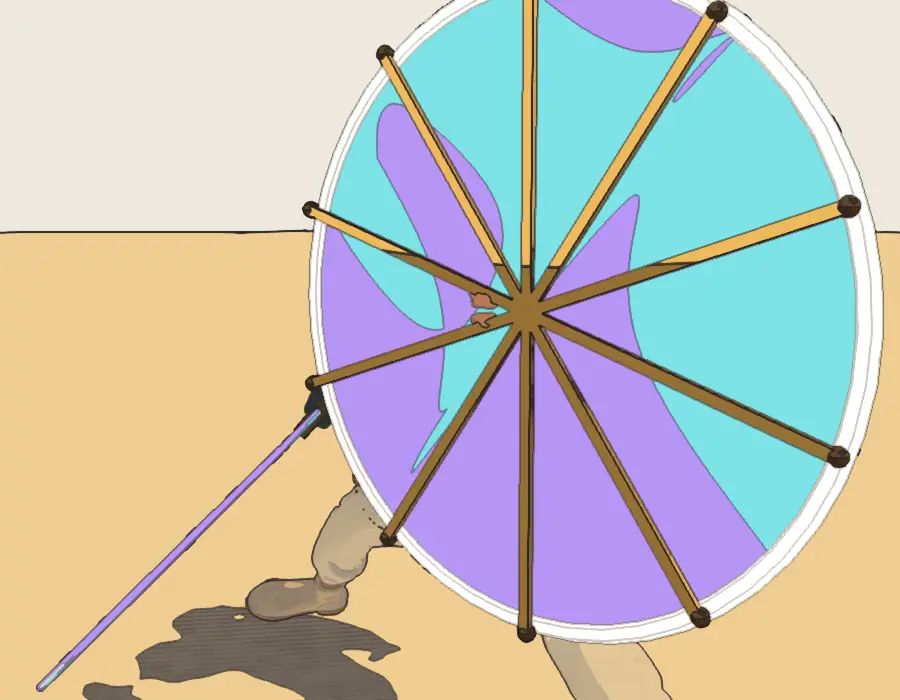
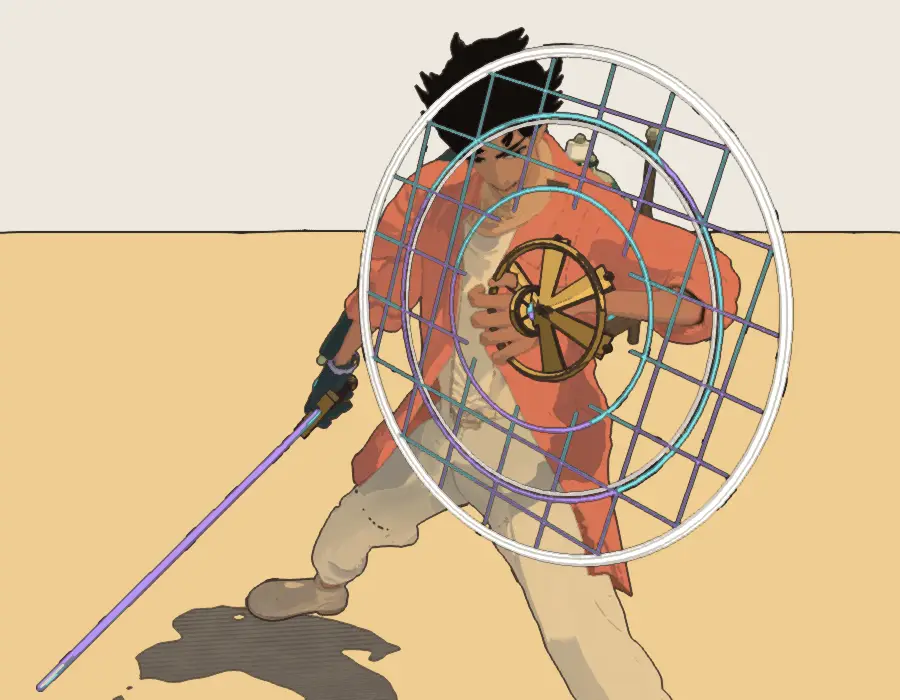
The open shield redesigned: smaller (0.35 m), six brass petals round the hub, the fluid a see-through inked field of rings and cross-hatching in a bright rim with a running shimmer (v0.93)
The guard arc still follows the drawn shape (about 48 degrees with none drawn); the parry flash is
two white rings, the block flare swells the lines. Media: before is the previous shield.

diff --git a/src/shield.js b/src/shield.js
@@ -4,11 +4,12 @@ import { bracerMount, carry, fitScale } from './blade-grip.js';
 
 // The shield: a makers' brass disc worn on the back of the traveller's left hand (src/blade-grip.js
 // bracerMount), always there with the backpack, folded small. Raise the guard (LB / L1) and it opens
-// in a blink: its ten brass ribs spin out of the disc like a fan opening all the way round, the
-// tank's fluid floods out from the hub between them into a domed membrane, and a bright rim closes
-// round it; as it opens it swivels on the hub to face the guard's way. Held, it shimmers; a block
-// flares it, a perfect parry flashes it white, a blow it cannot take (the tank empty) cracks it and
-// it flickers; let go and the fluid drains back into the hub and the ribs fold away.
+// in a blink: six brass petals spin out of the disc and fan out a little round the hub, a brass
+// ring closes round them, and the tank's fluid floods out beyond them as ink would draw it (a few
+// rings, a cross-hatch, the traveller seen through the gaps) inside a bright rim; as it opens it
+// swivels on the hub to face the guard's way. Held, a shimmer runs out to the rim; a block
+// flares it, a perfect parry bursts white rings off it, a blow it cannot take (the tank empty) cracks it and
+// it flickers; let go and the fluid drains back into the hub and the petals fold away.
 //
 //   new ShieldState()            the pure state machine: update(dt, want) -> 'open' | 'close' | null,
 //                                hit('block' | 'perfect' | 'broken'); open, fill, ribs(i), flare, flash, crack
@@ -16,12 +17,13 @@ import { bracerMount, carry, fitScale } from './blade-grip.js';
 //   new ShieldDevice(tool)       the drawn device: place(dt, { dir, up }) after the pose, arc() for the guard
 
 export const SHIELD = {
-  radius: 0.45,       // m, open
+  radius: 0.35,       // m, open (the traveller stays in sight behind it)
+  petal: 0.1,         // m, the brass petals' reach round the hub
   hub: 0.034,         // m, the folded disc
-  ribs: 10,
+  ribs: 6,
   open: 0.16,         // s to open (the guard is up at half of it: GUARD in src/fluid-blade.js)
   close: 0.14,        // s to fold away
-  stand: 0.035,       // m the open shield stands off the back of the hand
+  stand: 0.03,        // m the open shield stands off the back of the hand
   slack: 0.15,        // m round the rim a blow still meets it (the foe's swing is not a line)
   flare: 0.25, flash: 0.4, crack: 0.7,   // s each hit's look lasts
 };
@@ -111,35 +113,57 @@ export class ShieldDevice {
     this.bead = new THREE.Mesh(new THREE.SphereGeometry(0.014, 12, 8).scale(1, 1, 0.5).translate(0, 0, 0.008), tool.globMat);
     disc.add(this.bead);
     this.root.add(disc);
-    // the shield: swivels on the hub to face the guard's way (face), its ribs and fluid round its middle
+    // the shield: swivels on the hub to face the guard's way (face). Round the hub a collar of six brass
+    // petals that fan out a little and a brass ring; beyond them no solid disc but the fluid drawn as ink
+    // would draw it: a few rings, a cross-hatch, a bright rim and a shimmer running out to it (the game's
+    // materials are opaque: the see-through is the gaps between the lines)
     this.face = new THREE.Group();
     this.root.add(this.face);
     this.ribs = [];
     for (let i = 0; i < SHIELD.ribs; i++) {
-      const pivot = new THREE.Group();
-      const rib = new THREE.Mesh(new THREE.BoxGeometry(0.016, 1, 0.01).translate(0, 0.5, 0.034), brass);
-      const tip = new THREE.Mesh(new THREE.SphereGeometry(0.013, 8, 6).translate(0, 0, 0.03), dark);
-      pivot.add(rib, tip);
+      const pivot = new THREE.Group(), tilt = new THREE.Group();
+      const plate = new THREE.Mesh(new THREE.CylinderGeometry(0.026, 0.012, 1, 4, 1).rotateY(Math.PI / 4).scale(1, 1, 0.22).translate(0, 0.5, 0.004), brass);
+      const tip = new THREE.Mesh(new THREE.SphereGeometry(0.007, 6, 5), dark);
+      tilt.add(plate, tip); pivot.add(tilt);
       this.face.add(pivot);
-      this.ribs.push({ pivot, rib, tip, home: (i / SHIELD.ribs) * Math.PI * 2 });
+      this.ribs.push({ pivot, tilt, rib: plate, tip, home: (i / SHIELD.ribs) * Math.PI * 2 });
     }
-    // the fluid between them: a shallow dome of the glob's lava, a bright rim round it, a white flash over it
-    this.membrane = new THREE.Mesh(new THREE.SphereGeometry(1, 32, 10, 0, Math.PI * 2, 0, Math.PI / 2).rotateX(Math.PI / 2).scale(1, 1, 0.07), tool.globMat);
-    this.membrane.add(new THREE.Mesh(new THREE.CircleGeometry(1, 32).rotateY(Math.PI), tool.globMat));   // (its back, seen over the shoulder)
-    this.rim = new THREE.Mesh(new THREE.TorusGeometry(1, 0.035, 6, 48), edge);
-    this.flashDisc = new THREE.Mesh(new THREE.CircleGeometry(1, 40).translate(0, 0, 0.03), edge);
+    this.collar = new THREE.Mesh(new THREE.TorusGeometry(SHIELD.petal * 0.92, 0.006, 6, 36), brass);
+    this.field = new THREE.Group();   // (unit radius: scaled to the shield's)
+    const lines = [], fine = 0.009, clear = 0.42;
+    for (const r of [0.48, 0.76]) lines.push(new THREE.Mesh(new THREE.TorusGeometry(r, fine, 4, 48), tool.globMat));
+    // the hatching in a band round the edge (thicker toward the rim, as ink shades a curve), clear round the hub
+    for (const turn of [Math.PI / 4, -Math.PI / 4]) for (let d = -0.81; d <= 0.82; d += 0.27) {
+      const out = Math.sqrt(Math.max(0, 1 - d * d)) * 0.97, inner = Math.abs(d) < clear ? Math.sqrt(clear * clear - d * d) : 0;
+      for (const [u0, u1] of inner ? [[-out, -inner], [inner, out]] : [[-out, out]]) {
+        const strip = new THREE.Mesh(new THREE.BoxGeometry(u1 - u0, fine * 1.1, 0.008), tool.globMat);
+        const m = (u0 + u1) / 2;
+        strip.position.set(Math.cos(turn) * m - Math.sin(turn) * d, Math.sin(turn) * m + Math.cos(turn) * d, turn > 0 ? 0.004 : -0.004);
+        strip.rotation.z = turn;
+        lines.push(strip);
+      }
+    }
+    this.membrane = new THREE.Group();
+    this.membrane.add(...lines);
+    this.rim = new THREE.Mesh(new THREE.TorusGeometry(1, 0.022, 6, 64), edge);
+    this.shimmer = new THREE.Mesh(new THREE.TorusGeometry(1, 0.01, 4, 48), edge);
+    // the parry's flash: two white rings bursting out past the rim (the block's flare swells the lines)
+    this.flashDisc = new THREE.Group();
+    this.flashDisc.add(new THREE.Mesh(new THREE.TorusGeometry(1, 0.03, 6, 48), edge), new THREE.Mesh(new THREE.TorusGeometry(0.72, 0.02, 6, 48), edge));
+    this.field.add(this.membrane, this.rim, this.shimmer, this.flashDisc);
     // the cracks: a zigzag of ink lines across the fluid from near the hub
     this.cracks = new THREE.Group();
     const zig = [[0.05, 0.1], [0.32, 0.22], [0.5, 0.12], [0.78, 0.3], [0.97, 0.2]];
     for (const turn of [0.3, 2.2, 4.1]) for (let i = 0; i < zig.length - 1; i++) {
       const [r0, a0] = zig[i], [r1, a1] = zig[i + 1];
       const p0 = new THREE.Vector2(Math.cos(turn + a0) * r0, Math.sin(turn + a0) * r0), p1 = new THREE.Vector2(Math.cos(turn + a1) * r1, Math.sin(turn + a1) * r1);
-      const len = p0.distanceTo(p1), seg = new THREE.Mesh(new THREE.BoxGeometry(len, 0.016, 0.004), ink);
-      seg.position.set((p0.x + p1.x) / 2, (p0.y + p1.y) / 2, 0.15);
+      const len = p0.distanceTo(p1), seg = new THREE.Mesh(new THREE.BoxGeometry(len, 0.03, 0.012), ink);
+      seg.position.set((p0.x + p1.x) / 2, (p0.y + p1.y) / 2, 0.012);
       seg.rotation.z = Math.atan2(p1.y - p0.y, p1.x - p0.x);
       this.cracks.add(seg);
     }
-    this.face.add(this.membrane, this.rim, this.flashDisc, this.cracks);
+    this.field.add(this.cracks);
+    this.face.add(this.collar, this.field);
     this.root.traverse((o) => { o.userData.noCollide = true; o.userData.dynamic = true; o.frustumCulled = false; });
     this.root.visible = false;
     this.mount = null;
@@ -180,27 +204,32 @@ export class ShieldDevice {
         this.face.quaternion.copy(_q).invert().multiply(_q.clone().slerp(_q2, turn));
       } else this.face.quaternion.identity();
       this.face.position.set(0, 0, SHIELD.stand * smooth(k, 0, 0.5));
-      // the ribs spin out of the disc to their places round it, growing from the disc's size to the rim
+      // the petals spin out of the disc and fan out a little round the hub, the brass ring closing round them
       const shake = S.crack > 0 ? S.crack * 0.08 * Math.sin(time * 70) : 0;
       for (let i = 0; i < this.ribs.length; i++) {
         const r = this.ribs[i], u = S.rib(i, this.ribs.length);
-        r.pivot.rotation.z = THREE.MathUtils.lerp(-Math.PI * 0.5 + i * 0.05, r.home, u) + S.spin * 0.04 * (1 - u) + shake * (i % 2 ? 1 : -1);
-        const len = THREE.MathUtils.lerp(SHIELD.hub * 1.1, R, u);
-        r.rib.scale.set(1, len, 1); r.tip.position.y = len;
-        r.pivot.visible = u > 0.001 || k > 0;
+        r.pivot.rotation.z = THREE.MathUtils.lerp(-Math.PI * 0.5 + i * 0.08, r.home, u) + S.spin * 0.04 * (1 - u) + shake * (i % 2 ? 1 : -1);
+        r.tilt.rotation.x = -0.35 * u;   // (fanned back from the face, a shallow cup)
+        const len = THREE.MathUtils.lerp(SHIELD.hub * 0.9, SHIELD.petal, u);
+        r.rib.scale.set(1, len, 1); r.tip.position.set(0, len, 0.004);
       }
-      // the fluid floods out from the hub, the rim closes round it when it is all there; held, it shimmers
-      const f = S.fill, pulse = 1 + 0.012 * Math.sin(time * 9) + 0.16 * S.flare;
+      this.collar.visible = k > 0.5;
+      this.collar.scale.setScalar(smooth(k, 0.5, 1));
+      // the fluid: its lines flood out from the hub, the rim closes round them; held, a shimmer runs out to the rim
+      const f = S.fill, pulse = 1 + 0.015 * Math.sin(time * 9) + 0.18 * S.flare;
       const shown = S.shown(time);
-      this.membrane.visible = f > 0.01 && shown;
-      this.membrane.scale.setScalar(Math.max(0.01, R * f * pulse));
-      this.membrane.rotation.z = time * 0.6;   // (the fluid's tones turn slowly in it)
-      this.rim.visible = f > 0.6 && shown;
-      this.rim.scale.setScalar(R * pulse * (0.9 + 0.1 * smooth(f, 0.6, 1)));
+      this.field.visible = f > 0.01;
+      this.field.scale.setScalar(Math.max(0.01, R * f * pulse));
+      this.membrane.visible = shown;
+      this.membrane.rotation.z = time * 0.5;   // (the hatching turns slowly, the fluid's tones running along its lines)
+      this.rim.visible = f > 0.5 && shown;
+      this.rim.scale.setScalar(0.9 + 0.1 * smooth(f, 0.5, 1));
+      const run = (time * 0.9) % 1;
+      this.shimmer.visible = f > 0.95 && shown && S.crack === 0;
+      this.shimmer.scale.setScalar(0.25 + 0.72 * run);
       this.flashDisc.visible = S.flash > 0.02;
-      this.flashDisc.scale.setScalar(R * (1.02 + 0.35 * (1 - S.flash)));
+      this.flashDisc.scale.setScalar(1.02 + 0.45 * (1 - S.flash));
       this.cracks.visible = S.crack > 0.02 && f > 0.3;
-      this.cracks.scale.set(R * f, R * f, 1);
     }
     // where it is, for the guard's arc (src/fluid-blade.js block) and the block's splash
     this.face.updateWorldMatrix(true, false);

diff --git a/src/changelog.js b/src/changelog.js
@@ -13,7 +13,7 @@ export const CHANGELOG = [
     'The shade has a new look: a cartoon drawn in negative, a flat black figure outlined in white, with a few white strokes for its folds, so it stands out in the desert at noon and in the night market alike. Its head is a black flame with two white eye-slits. The flame streams back as it runs, flares up as it winds up an attack, whips across with the swing, gutters and shrinks when you hit or stun it, and tears away into black licks as it dies, while its body pours back down into the ground.',
     'Hitboxes, to study a fight: in the Arena a board by the way in shows or hides them (B / ○, E), and anywhere F4, both sticks clicked together (L3 + R3), the dev menu or ?hitboxes=1 do too; the choice is kept. Drawn over everything in bright lines: the traveller’s hurt column, the blade’s cone and edge (yellow, red on the frames it cuts, with its sweep), the guard’s arc (white while a parry would land), an evade, the lock-on; each foe’s body, its sight and reach, where its strike lands (orange as it winds up, red while it lands) and its state in words, stunned or reeling; shots, bombs’ blasts and the hook’s line.',
     'The Arcade (Debug worlds, next to the Gadget Yard): a round plaza with an arcade sign for every game, its name and your best on a plate under it. Walk up and press the interact button to play; Quit or the end of a run puts you back in front of that sign. The games board by the way in (or Tab, or LT + X / □) lists them all to jump straight into one, and a game started from the Arcade has Previous game, Next game and Back to the Arcade on its cards (LB / RB or [ and ]) to go round all ten without leaving.',
-    'The shield is a device now: a small brass disc worn on the back of your left hand. Raise the guard (LB / L1) and in a blink its ten brass ribs spin out round it and the tank’s fluid floods between them into a round shield with a bright rim, turned to face the blow; it shimmers while you hold it, flares on a block, flashes white on a perfect parry, cracks and flickers when a blow finds the tank empty, and folds back into the disc when you let go, each with its own click and hiss. What it guards is what it covers as drawn: a blow is blocked if it comes from within the shield’s edges as seen from your chest.',
+    'The shield is a device now: a small brass disc worn on the back of your left hand. Raise the guard (LB / L1) and in a blink six brass petals fan out round it and the tank’s fluid spreads beyond them into a see-through shield drawn in ink, a few rings and a cross-hatch inside a bright rim, held close to your forearm and turned to face the blow; a shimmer runs out to its rim while you hold it, it flares on a block, bursts white rings on a perfect parry, cracks and flickers when a blow finds the tank empty, and folds back into the disc when you let go, each with its own click and hiss. What it guards is what it covers as drawn: a blow is blocked if it comes from within the shield’s edges as seen from your chest.',
     'The sword sits in your fist: its grip closed in the fingers, the guard over the thumb, the pommel under the little finger, the blade along the hand and its edge leading every cut, on every swing, the heavy one, the whirl, strafing, evading, blocking and taking a hit. It stays in your hand in a fight and for a moment after (all the while you are locked on), and is put away when you climb, swim, glide, fly, ride, aim, fall or talk.',
     'Each world now has foes of its own, the loose ink taking the shape of what is round it: the packs in the wilds, the guards round a relic and the rooms of some temples are drawn from the world’s own kinds, and the first time each kind comes for you the game says what beats it.',
     'Dune rays swim under the Desert’s sand and the Buried Machine’s: a ripple ring closes round your feet, and they burst up there. Glass golems walk the Glass Dunes: slams, a burst of shards and a hurled chunk; bombs crack them deep, a perfect parry chips them, and they break into splinters that keep coming. Salt crabs in the Salt Harbour and the Underwater City turn the blade with their shells from the front: get round them, guard their spinning charge to flip them on their backs, or crack the shell with a bomb.',

diff --git a/src/changelog-media.js b/src/changelog-media.js
@@ -136,7 +136,7 @@ export const CHANGELOG_MEDIA = {
       { name: 'arcade-pause', only: 'after', caption: 'A game from the Arcade, paused: Previous game, Next game, Back to the Arcade', from: 'headless Chrome against this branch’s own dev server, High, 1280 × 720 (8 October), driven by a script' },
     ], see: 'Open ?level=arcade (or the Debug worlds list). Walk to a sign and press the interact button, or press Tab (LT + X / □) for the games board; in a game press Menu / Esc, then Next game, or LB / RB ([ ]) on any of its cards.' },
     { match: 'The shield is a device now', shots: [
-      { name: 'shield-guard', caption: 'The guard held: before, a lens of fluid floating over the arm; after, the disc opened into a shield on the left hand, its brass ribs over the fluid', from: 'the character studio (studio.html?backpack=true&sword=true&shield=1&anim=clip:mixamo_ss_block_idle&paused=true&view=arms&yaw=0.7&pitch=0.12&bg=flat), headless Chrome against this branch’s own dev server, 900 × 700 (8 October)' },
+      { name: 'shield-guard', caption: 'The guard held: before, a spoked disc of opaque fluid hiding the traveller; after, a smaller see-through shield of inked fluid round a collar of brass petals, close to the forearm', from: 'the character studio (studio.html?backpack=true&sword=true&shield=1&anim=clip:mixamo_ss_block_idle&paused=true&view=arms&yaw=0.7&pitch=0.12&bg=flat), headless Chrome against this branch’s own dev server, 900 × 700 (8 October)' },
       { name: 'shield-bracer', only: 'after', caption: 'Folded: the brass disc on the back of the left hand, its ribs closed like an iris round a bead of the fluid', from: 'the character studio (view=bracer&yaw=1.2&pitch=0.2), headless Chrome, 900 × 700 (8 October)' },
     ], see: 'In the Arena (?level=arena) hold LB / L1 (Z or Ctrl) and let go; take a blow with it raised, and raise it just as a blot strikes for the parry. Or open studio.html?backpack=true&shield=1&view=arms and slide “Shield open”.' },
     { match: 'The sword sits in your fist', shots: [

diff --git a/changelog.md b/changelog.md
@@ -11,7 +11,7 @@ The same release notes shown in the game (press **N** or open settings).
 - Dune rays swim under the Desert’s sand and the Buried Machine’s: a ripple ring closes round your feet, and they burst up there. Glass golems walk the Glass Dunes: slams, a burst of shards and a hurled chunk; bombs crack them deep, a perfect parry chips them, and they break into splinters that keep coming. Salt crabs in the Salt Harbour and the Underwater City turn the blade with their shells from the front: get round them, guard their spinning charge to flip them on their backs, or crack the shell with a bomb.
 - Each world now has foes of its own, the loose ink taking the shape of what is round it: the packs in the wilds, the guards round a relic and the rooms of some temples are drawn from the world’s own kinds, and the first time each kind comes for you the game says what beats it.
 - The sword sits in your fist: its grip closed in the fingers, the guard over the thumb, the pommel under the little finger, the blade along the hand and its edge leading every cut, on every swing, the heavy one, the whirl, strafing, evading, blocking and taking a hit. It stays in your hand in a fight and for a moment after (all the while you are locked on), and is put away when you climb, swim, glide, fly, ride, aim, fall or talk.
-- The shield is a device now: a small brass disc worn on the back of your left hand. Raise the guard (LB / L1) and in a blink its ten brass ribs spin out round it and the tank’s fluid floods between them into a round shield with a bright rim, turned to face the blow; it shimmers while you hold it, flares on a block, flashes white on a perfect parry, cracks and flickers when a blow finds the tank empty, and folds back into the disc when you let go, each with its own click and hiss. What it guards is what it covers as drawn: a blow is blocked if it comes from within the shield’s edges as seen from your chest.
+- The shield is a device now: a small brass disc worn on the back of your left hand. Raise the guard (LB / L1) and in a blink six brass petals fan out round it and the tank’s fluid spreads beyond them into a see-through shield drawn in ink, a few rings and a cross-hatch inside a bright rim, held close to your forearm and turned to face the blow; a shimmer runs out to its rim while you hold it, it flares on a block, bursts white rings on a perfect parry, cracks and flickers when a blow finds the tank empty, and folds back into the disc when you let go, each with its own click and hiss. What it guards is what it covers as drawn: a blow is blocked if it comes from within the shield’s edges as seen from your chest.
 - The Arcade (Debug worlds, next to the Gadget Yard): a round plaza with an arcade sign for every game, its name and your best on a plate under it. Walk up and press the interact button to play; Quit or the end of a run puts you back in front of that sign. The games board by the way in (or Tab, or LT + X / □) lists them all to jump straight into one, and a game started from the Arcade has Previous game, Next game and Back to the Arcade on its cards (LB / RB or [ and ]) to go round all ten without leaving.
 - Hitboxes, to study a fight: in the Arena a board by the way in shows or hides them (B / ○, E), and anywhere F4, both sticks clicked together (L3 + R3), the dev menu or ?hitboxes=1 do too; the choice is kept. Drawn over everything in bright lines: the traveller’s hurt column, the blade’s cone and edge (yellow, red on the frames it cuts, with its sweep), the guard’s arc (white while a parry would land), an evade, the lock-on; each foe’s body, its sight and reach, where its strike lands (orange as it winds up, red while it lands) and its state in words, stunned or reeling; shots, bombs’ blasts and the hook’s line.
 - The shade has a new look: a cartoon drawn in negative, a flat black figure outlined in white, with a few white strokes for its folds, so it stands out in the desert at noon and in the night market alike. Its head is a black flame with two white eye-slits. The flame streams back as it runs, flares up as it winds up an attack, whips across with the swing, gutters and shrinks when you hit or stun it, and tears away into black licks as it dies, while its body pours back down into the ground.

diff --git a/docs/systems/foes.md b/docs/systems/foes.md
@@ -55,18 +55,23 @@ The first things in the game that fight back, and the tool's answer to them.
   (climbing, swimming, gliding, the jets, riding, aiming the gun, knocked down, a scene or a conversation). The
   hands close round them (`player.swordGrip`, `player.shieldGrip` → `handTargets` `sword` / `shield`).
 - **The blade's segment** (hits) is read from the hilt's own frame, so it is the drawn blade exactly.
-- **The shield** (`ShieldDevice`): the brass disc always on the hand with the backpack. `ShieldState` is the
+- **The shield** (`ShieldDevice`): the brass disc always on the hand with the backpack. Open, it is 0.35 m in radius
+  (`SHIELD.radius`), on the back of the hand: a collar of six brass petals (`SHIELD.petal`) and a
+  brass ring round the hub, then the fluid drawn as ink, two rings and a cross-hatch in a band round the edge
+  (the game's materials are opaque: the see-through is the gaps), a bright rim and a shimmer ring running out
+  to it. `ShieldState` is the
   pure state machine (folded → opening → open → closing, and broken): it opens in `SHIELD.open` (0.16 s; the
-  guard counts as up at `guardK` 0.5, unchanged), the ten ribs spinning out one after another, the fluid
-  flooding out to the rim after them; held it shimmers; `hit('block')` flares it, `'perfect'` flashes it white,
+  guard counts as up at `guardK` 0.5, unchanged), the six petals spinning out one after another, the fluid
+  flooding out to the rim after them; held it shimmers; `hit('block')` flares it, `'perfect'` bursts two white rings off it,
   `'broken'` (a blow within its arc with the tank empty) cracks and flickers it until it mends; it folds in
   `SHIELD.close`. It swivels on the hub to face the guard's way as it opens. Sounds: `shieldOpen`,
   `shieldClose`, `shieldBreak` (src/audio.js), on the state machine's transitions.
 - **Coverage is the drawn shape.** Each frame `ShieldDevice.arc` measures the bearings between the shield's two
   edges (`SHIELD.radius` + `SHIELD.slack`) as seen from the chest (`shieldArc`); `block()` tests the blow's
   bearing against that arc (`guardArc`), and the hitbox overlay draws the same arc. With no shield drawn,
-  `GUARD.angle` is the arc of one held `GUARD.reach` ahead (about 55°; in the block pose the measured arc is
-  about 59°, a little more to the left where the shield is held).
+  `GUARD.angle` is the arc of one held `GUARD.reach` ahead (about 48°). In the block pose the measured arc is
+  about 45° each side of a line 18° to the left of facing, where the left hand holds it: from about 63° on the
+  left to 28° on the right.
 - **Inspect:** the studio (`studio.html?backpack=true&sword=true&shield=1&view=arms`, any clip scrubbed with
   `anim=clip:mixamo_ss_slash_1&paused=true&time=0.4`; views `hands` and `bracer` for close-ups; `guard=block|
   parry|broken`) runs the blade's own placing code (`FluidBlade.inspect`). `tests/blade-grip.test.js` samples
